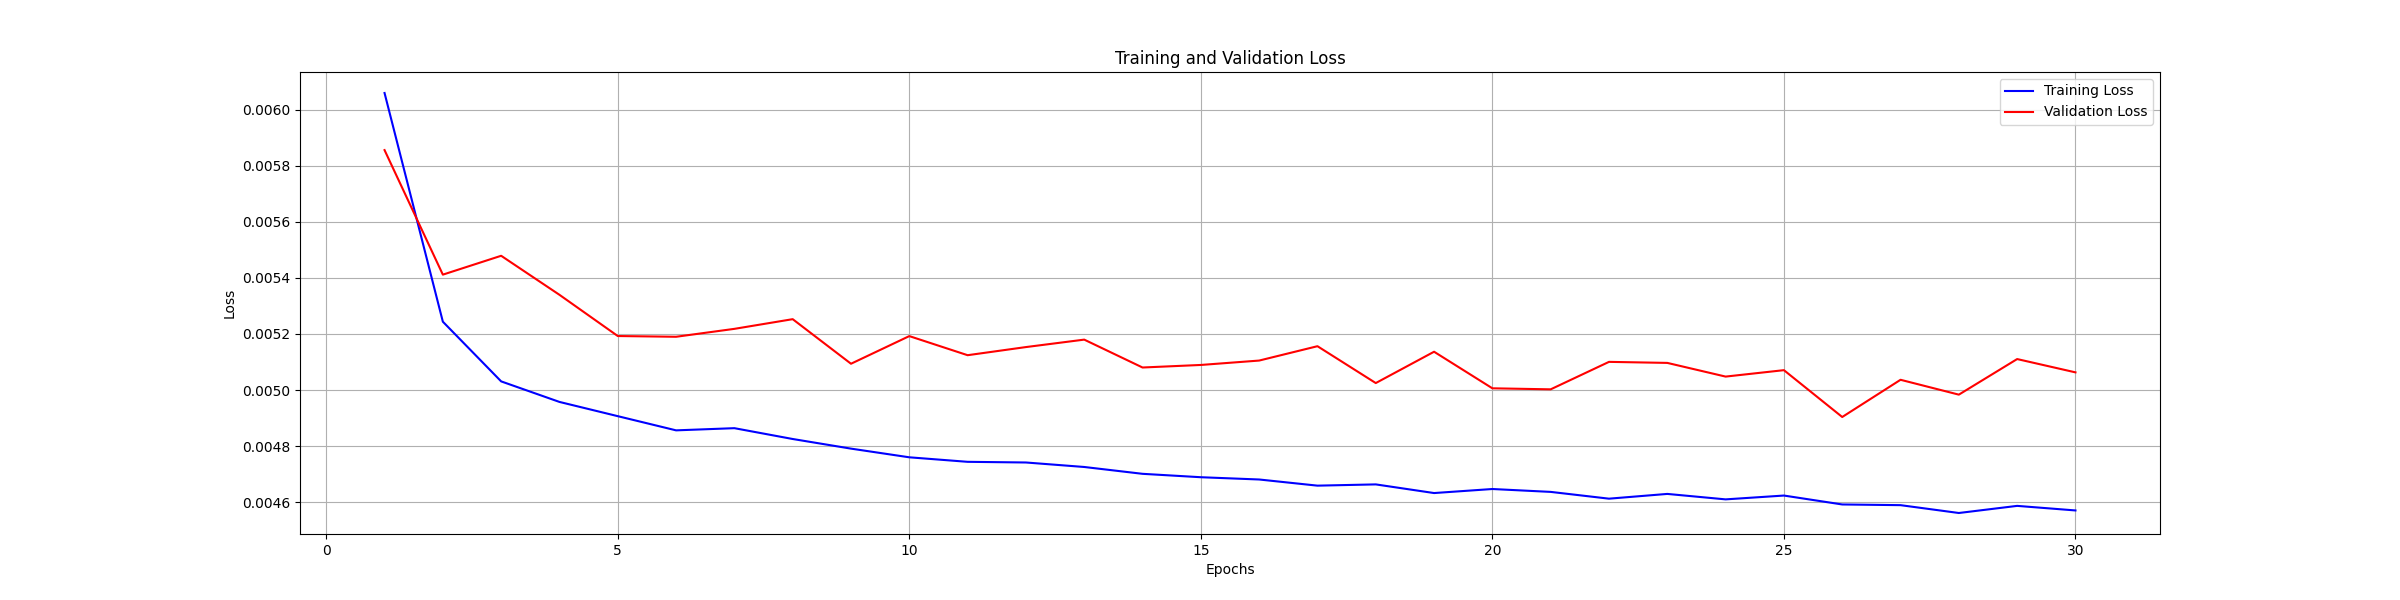
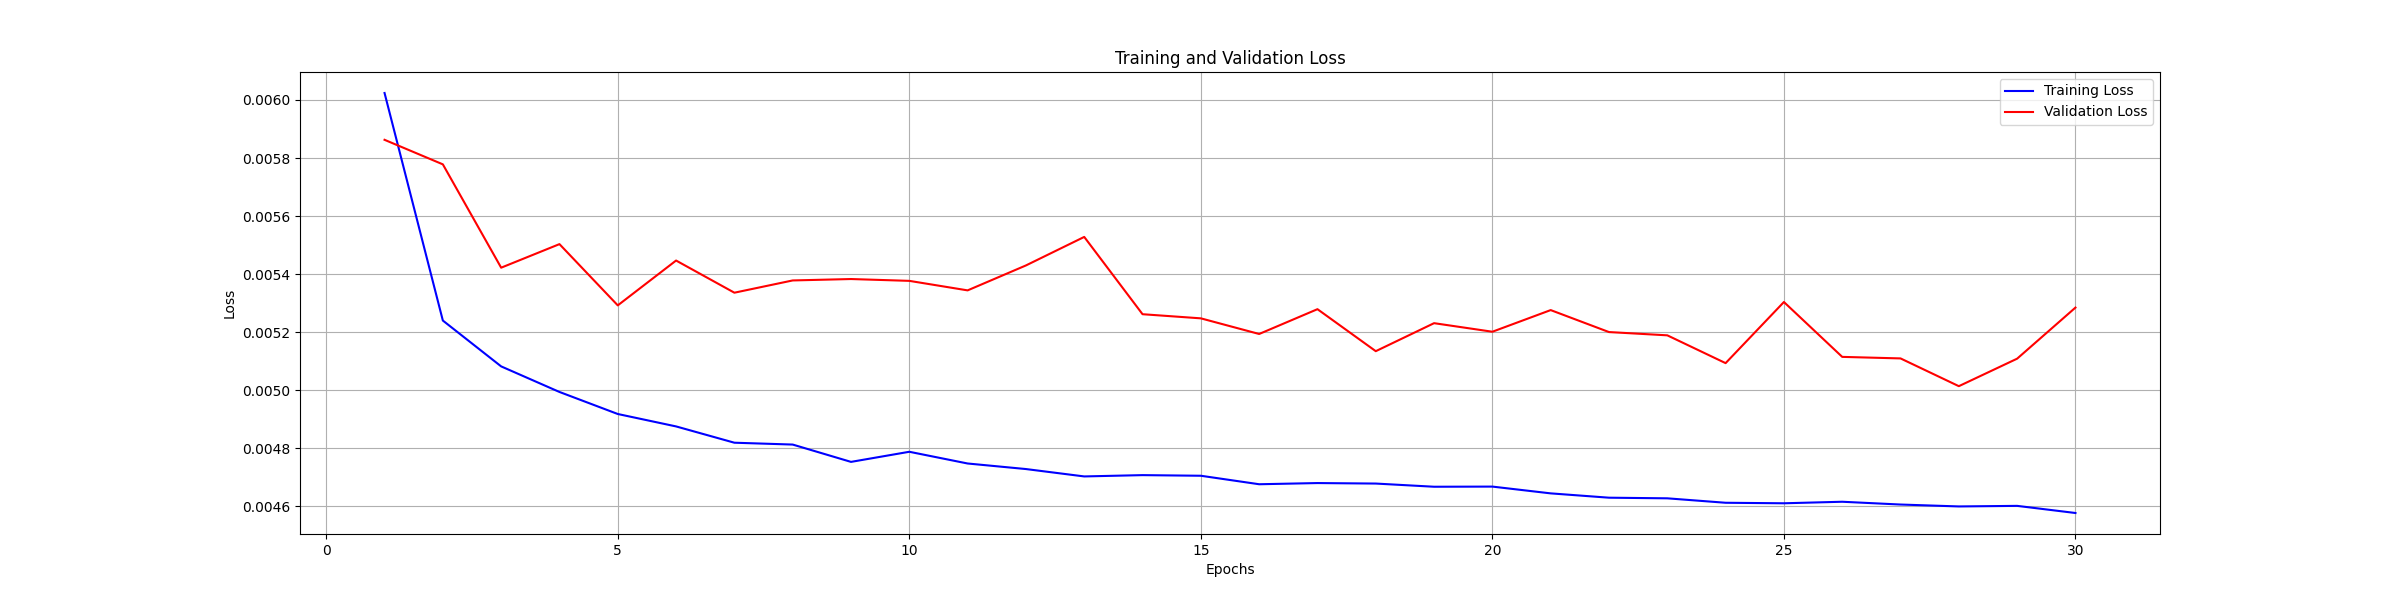
wp - plots

diff --git a/utils.py b/utils.py
@@ -77,7 +77,6 @@ def load_weather_data(batch_size):
     return trainloader, valloader, testloader, 3 #, scaler  # Return scaler for inverse transformation if needed
 
 
-# data preberation function 
 def load_weather_data_transformer(filepath, batch_size, seq_length):
     # Load and preprocess the data
     data = pd.read_csv(filepath, parse_dates=['date'])
@@ -97,23 +96,28 @@ def load_weather_data_transformer(filepath, batch_size, seq_length):
     scaler = StandardScaler()
     data_scaled = scaler.fit_transform(data)
 
-    # Create sequences
-    X, y = [], []
-    for i in range(len(data_scaled) - seq_length):
-        X.append(data_scaled[i:i + seq_length])
-        y.append(data_scaled[i + seq_length])
-    X, y = np.array(X), np.array(y)
-
-    # Calculate the indices for splitting
-    total_len = len(X)
+    # Calculate the indices for splitting (before creating sequences)
+    total_len = len(data_scaled)
     train_size = int(total_len * 0.8)  # First 80% for training
     val_size = int(total_len * 0.1)    # Next 10% for validation
     test_size = total_len - train_size - val_size  # Remaining 10% for test
 
-    # Split the data based on calculated sizes
-    X_train, y_train = X[:train_size], y[:train_size]
-    X_eval, y_eval = X[train_size:train_size + val_size], y[train_size:train_size + val_size]
-    X_test, y_test = X[train_size + val_size:], y[train_size + val_size:]
+    # Split the data
+    train_data = data_scaled[:train_size]
+    val_data = data_scaled[train_size:train_size + val_size]
+    test_data = data_scaled[train_size + val_size:]
+
+    # Create sequences after splitting
+    def create_sequences(data, seq_length):
+        X, y = [], []
+        for i in range(len(data) - seq_length):
+            X.append(data[i:i + seq_length])
+            y.append(data[i + seq_length])
+        return np.array(X), np.array(y)
+
+    X_train, y_train = create_sequences(train_data, seq_length)
+    X_eval, y_eval = create_sequences(val_data, seq_length)
+    X_test, y_test = create_sequences(test_data, seq_length)
 
     # Convert to tensors
     X_train_tensor = torch.tensor(X_train, dtype=torch.float32)
@@ -134,6 +138,7 @@ def load_weather_data_transformer(filepath, batch_size, seq_length):
     testloader = torch.utils.data.DataLoader(test_dataset, batch_size=batch_size, shuffle=False)
 
     return trainloader, evalloader, testloader, scaler, features, len(features), seq_length
+
 
 
 ###########################################################################################################################

diff --git a/transformer.py b/transformer.py
@@ -96,7 +96,7 @@ def train_transform(trainloader,evalloader, testloader, scaler, features, input_
         detection_rate, direction_of_error = calculate_metrics(predictions_inv_tensor, actuals_inv_tensor)
         detection_rates.append(detection_rate)
 
-        print(f"Epoch {epoch+1}/{num_epochs}, Train Loss: {epoch_loss:.4f}, Validation Loss: {eval_loss:.4f}")
+        print(f"Epoch {epoch+1}/{num_epochs}, Train Loss: {epoch_loss:.4f}, Validation Loss: {eval_loss:.4f}, error :{detection_rate:.4f}")
 
     # test model
     model.eval()
